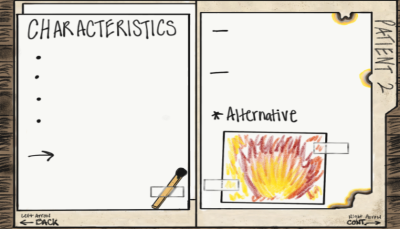
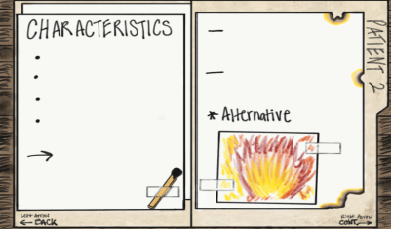
edit to casefiles

diff --git a/src/scenes/CaseFile.js b/src/scenes/CaseFile.js
@@ -94,7 +94,8 @@ class CaseFile extends Phaser.Scene {
         this.case1Screen = this.add.tileSprite(-5, -5, 1000, 1000, 'case1').setOrigin(0,0)
         this.case1Screen.alpha = 0
 
-        this.case2Screen = this.add.tileSprite(-27, 25, 1000, 1000, 'case2').setOrigin(0,0)
+        this.case2Screen = this.add.tileSprite(-27, 33, 1000, 1000, 'case2').setOrigin(0,0)
+        this.case2Screen.setScale(.98);
         this.case2Screen.alpha = 0
 
         this.case3Screen = this.add.tileSprite(-5, -5, 1000, 1000, 'case3').setOrigin(0,0)
@@ -110,13 +111,13 @@ class CaseFile extends Phaser.Scene {
          this.casea7 = this.add.bitmapText(473, 360, 'basic_font', 'occuring panic attacks');this.casea7.alpha=0;
          //casefile 2
  
-         this.caseb1 = this.add.bitmapText(94, 100, 'basic_font', 'dazzled, in awe of fire'); this.caseb1.alpha=0;
-         this.caseb2 = this.add.bitmapText(93, 138, 'basic_font', 'carry matches or lighters');this.caseb2.alpha=0;
-         this.caseb3 = this.add.bitmapText(94, 174, 'basic_font', 'leaves burnt holes on\n house rugs');this.caseb3.alpha=0;
-         this.caseb4 = this.add.bitmapText(94, 235, 'basic_font', 'needs sense of relief from\n tension or anxiety');this.caseb4.alpha=0;
-         this.caseb5 = this.add.bitmapText(94, 304, 'basic_font', 'needs to see physical fire\n everywhere');this.caseb5.alpha=0;
-         this.caseb6 = this.add.bitmapText(517, 62, 'basic_font', 'as a child would burn\n ants with magnfying glass,\n then smallbirds');this.caseb6.alpha=0;
-         this.caseb7 = this.add.bitmapText(517, 140, 'basic_font', '"there for me when\n no one else was"');this.caseb7.alpha=0;
+         this.caseb1 = this.add.bitmapText(64, 120, 'basic_font', 'dazzled, in awe of fire'); this.caseb1.alpha=0;
+         this.caseb2 = this.add.bitmapText(58, 145, 'basic_font', 'carry matches or lighters');this.caseb2.alpha=0;
+         this.caseb3 = this.add.bitmapText(74, 174, 'basic_font', 'leaves burnt holes on \nhouse rugs');this.caseb3.alpha=0;
+         this.caseb4 = this.add.bitmapText(74, 235, 'basic_font', 'needs sense of relief \nfrom tension or anxiety');this.caseb4.alpha=0;
+         this.caseb5 = this.add.bitmapText(74, 304, 'basic_font', 'needs to see physical \nfire everywhere');this.caseb5.alpha=0;
+         this.caseb6 = this.add.bitmapText(467, 62, 'basic_font', 'as a child would burn\n ants with magnfying \nglass, then smallbirds');this.caseb6.alpha=0;
+         this.caseb7 = this.add.bitmapText(467, 160, 'basic_font', '"there for me when\n no one else was"');this.caseb7.alpha=0;
          //casefile 3
          this.casec1 = this.add.bitmapText(92, 100, 'basic_font', 'objects altering in size'); this.casec1.alpha=0;
          this.casec2 = this.add.bitmapText(86, 147, 'basic_font', 'migraines and dizziness');this.casec2.alpha=0;
